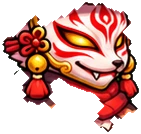
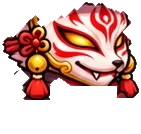
Mirror totem-legend: cat mask scarf trim

diff --git a/cat_mask.js b/cat_mask.js
@@ -6,7 +6,7 @@
    The mask is drawn after the cat, then the hat is cut out of it, so it sits UNDER the hat brim. */
 (function(){if(typeof CHAR==='undefined'||CHAR!=='cat'||/[?&]vfx3=0/.test(location.search))return;
 const OFF={"S":[-0.0,0.413,0.861],"SE":[0.006,0.486,0.887],"E":[-0.047,0.42,1.094],"NE":[-0.113,0.462,1.133],"N":[0.024,0.23,0.7]},HW={"S": 81.8, "SE": 75.0, "E": 65.0, "NE": 58.3, "N": 98.2},HAT={"idle":{"S":[[359.8,290.1],[359.8,289.8],[360.1,288.8],[359.8,287.7],[359.3,286.2],[359.4,285.1],[359.2,284.2],[358.8,283.5],[359.1,283.4],[358.9,283.4],[358.6,283.7],[358.7,284.2]],"SE":[[359.1,286.8],[359.5,286.8],[360.1,287.3],[360.2,287.5],[360.7,287.6],[361.2,287.9],[361.5,287.9],[361.7,288.0],[362.0,288.1],[362.0,288.0],[362.3,288.0],[361.8,287.8]],"E":[[360.3,290.2],[360.3,290.2],[362.8,291.4],[366.3,293.0],[365.0,292.2],[361.5,290.5],[360.6,290.1],[360.5,290.1],[360.6,290.2],[360.4,290.2],[360.5,290.2],[360.3,290.1]],"NE":[[370.9,293.4],[368.8,292.7],[366.4,291.7],[365.1,290.5],[365.2,290.2],[366.3,290.4],[368.8,290.7],[370.4,291.2],[370.3,291.3],[370.4,291.4],[370.2,291.7],[370.6,292.3]],"N":[[358.7,294.0],[358.8,293.7],[358.7,293.9],[358.3,295.4],[358.6,298.1],[358.9,299.5],[358.6,299.9],[358.4,299.0],[359.0,297.7],[358.4,296.5],[359.0,295.4],[358.6,294.5]]},"walk":{"S":[[352.0,286.5],[352.8,286.3],[359.9,285.9],[366.3,286.1],[370.3,286.3],[371.9,286.4],[368.3,285.7],[360.9,285.4]],"SE":[[359.0,291.2],[358.9,290.5],[358.9,287.4],[358.8,288.2],[359.1,291.2],[358.8,290.5],[358.9,286.6],[358.8,288.1]],"E":[[360.3,294.5],[360.2,291.0],[360.3,291.5],[360.4,295.2],[360.2,294.0],[360.3,291.4],[360.4,290.8],[360.6,294.9]],"NE":[[370.2,290.9],[370.4,294.4],[370.5,299.1],[370.4,295.1],[370.1,290.8],[370.5,293.9],[370.4,299.0],[370.4,295.5]],"N":[[357.1,296.1],[358.0,294.8],[359.0,299.4],[359.8,299.0],[359.2,295.7],[358.5,294.7],[357.2,298.0],[356.8,298.7]]},"attack":{"S":[[361.5,288.2],[368.8,295.0],[364.3,297.6],[359.1,300.8],[358.9,300.4],[348.5,296.6],[351.4,297.5],[354.3,298.3],[357.1,299.1],[360.0,300.0],[362.9,300.9],[365.8,301.7],[365.8,301.7],[365.8,300.9]],"SE":[[359.4,290.4],[349.1,296.4],[347.7,298.4],[348.0,299.6],[348.3,300.8],[348.6,301.3],[348.4,301.2],[348.7,301.3],[348.6,301.5],[348.8,302.0],[350.2,302.5],[352.8,299.3],[357.6,292.9],[359.3,289.1]],"E":[[360.3,290.1],[360.6,291.0],[360.6,292.7],[360.2,294.8],[359.6,297.3],[358.9,300.9],[358.5,302.5],[358.0,304.1],[358.4,300.9],[358.9,297.8],[359.2,294.3],[359.9,292.0],[360.2,290.7],[360.1,290.3]],"NE":[[370.1,292.1],[370.6,292.9],[369.8,295.6],[368.5,297.2],[371.8,291.3],[373.2,296.5],[372.9,302.7],[372.2,306.8],[371.9,307.0],[372.6,302.4],[372.1,293.7],[370.8,291.8],[370.1,291.2],[370.4,291.2]],"N":[[358.4,294.5],[359.6,296.4],[364.4,302.2],[374.2,302.1],[373.8,301.1],[373.5,300.1],[373.1,299.1],[372.8,298.0],[372.4,297.0],[372.1,296.0],[371.7,295.0],[368.2,295.1],[362.7,294.8],[360.1,294.6]]},"buff":{"S":[[360.0,285.4],[360.1,285.4],[363.8,285.8],[368.0,290.0],[367.2,307.4],[361.8,330.9],[362.2,339.6],[361.1,287.2],[360.2,285.2],[359.5,285.4],[359.8,285.4],[359.8,285.4]],"SE":[[358.7,286.3],[358.8,286.2],[358.7,286.6],[368.1,296.1],[379.6,322.7],[381.8,334.7],[381.9,337.3],[381.2,336.4],[379.7,324.0],[369.0,298.6],[360.8,288.5],[358.4,286.3]],"E":[[360.2,290.1],[360.4,290.1],[362.7,290.7],[372.0,296.1],[381.4,307.2],[387.2,316.3],[390.4,323.0],[383.8,308.7],[375.4,298.0],[367.9,293.2],[362.9,291.0],[360.3,290.3]],"NE":[[370.1,291.5],[370.2,291.5],[370.2,291.6],[374.5,294.4],[380.2,301.5],[385.0,312.7],[388.0,329.0],[370.4,291.6],[370.4,291.6],[370.3,291.6],[370.2,291.6],[370.1,291.6]],"N":[[358.7,294.3],[358.2,294.9],[359.0,295.5],[363.1,298.9],[362.8,298.9],[362.6,299.1],[362.0,310.1],[362.4,312.0],[362.5,304.5],[362.6,300.8],[362.8,299.1],[362.2,298.5]]},"hurt":{"S":[[359.8,288.1],[359.8,287.1],[359.9,288.1],[359.9,288.0],[359.6,289.1],[359.9,290.1],[359.6,290.1]],"SE":[[336.1,286.8],[321.1,288.7],[328.3,287.6],[340.1,286.5],[347.7,287.0],[354.8,286.9],[359.3,286.7]],"E":[[336.7,291.0],[321.2,292.8],[329.4,291.8],[340.8,290.8],[348.9,290.4],[356.1,290.2],[360.3,290.1]],"NE":[[348.3,294.3],[334.1,295.2],[341.1,294.7],[352.4,294.2],[359.3,293.2],[366.7,293.3],[370.9,293.4]],"N":[[358.7,296.0],[358.7,297.1],[358.8,296.1],[358.8,296.0],[358.6,295.0],[358.9,294.0],[358.6,294.1]]}};
-const IM={};for(const v in OFF){const im=new Image();im.src='assets/fx/cat/mask8_'+v+'.webp';IM[v]=im;}
+const IM={};for(const v in OFF){const im=new Image();im.src='assets/fx/cat/mask8_'+v+'.webp?v=2';IM[v]=im;}
 const CR=new Image();CR.src='assets/fx/cat/mask_white_crack.webp';
 const HC={},PAD=70;
 function straw(r,g,b){return r>170&&g>120&&b<150&&r-b>60&&r>=g&&g-b>30;}

diff --git a/index.html b/index.html
@@ -5925,7 +5925,7 @@ window.AF={levelUp:()=>{if(PS.lv<99){PS.lv++;applyStats();player.hp=player.maxHp
 <script src="cat_art.js?v=1"></script>
 <script src="kitsune_art.js?v=1"></script>
 <script src="cat_vfx.js?v=16"></script>
-<script src="cat_mask.js?v=2"></script>
+<script src="cat_mask.js?v=3"></script>
 <script src="kitsune_vfx.js?v=1"></script>
 <script src="croc_vfx3.js?v=1"></script>
 <script src="ui_skin.js?v=1"></script>

diff --git a/CLAUDE.md b/CLAUDE.md
@@ -115,7 +115,7 @@ The owner (Thai speaker) builds this game across many chats. Reply in Thai. Comm
   · New cfg options: noApron (no code doorsteps; the capital sprites paint their own), artRef:[r,g,b] + bounce (pieces are colour-matched to the stone they stand on, not to the grass ground), lawns {pre:1 (painted in the floor picture, only planted at runtime), keep, m, step, g, f}, groundImgs, kerb-less paves {mul} (multiplicative tint), walls.parapet now draws merlons with a front face and fills the rampart walk behind the face texture's own merlons. The minimap shows the floor picture.
   · Layout touches in capT: buildings stand 26 px back from their terrace's kerb, the fountain is on the plaza centre (y 2180) with four lamps, the two ringed pines stand on the terraces north of the plaza, the three lawns have real trees (2 each) instead of a ringed pine on the kerb, ten flower beds are planted densely, gates have a clean stone floor (pave rects with the floor's texture and tint, map-anchored → no seam) that spreads into a worn apron outside before the earth road.
   · Checked: no console errors, start / gates / warps / lawns reachable, routes across the city work, frame rate unchanged, chunk bake 66 → 26 ms. Night mode looked at (fine). Not looked at: phone screen.
-- Cat effects v3 (owner 2026-11-20: "make the cat's skill effects with SVG and VFX, pretty and realistic, details matching each skill's concept" + "hit timing, sword-swing timing and effect timing must match") — REPLACES the 'Cat (White Ronin) code VFX' note above. Plan + per-skill table in CAT_FX_PLAN_TH.md. Files: cat_art.js (20 SVG pieces rasterised once: petals, blossom, swallow, paw, eye, kasa, mask, oniFace, oniSpirit, flames, hitodama, windMark, mountain, kumo → window.KTA) · cat_vfx.js (kit: KArc sword arc in a tilted plane / KLine iai line / KGlint / KBurst / KRing broken ground ring / KStreak / KSprite / KFissure ground crack / KSpike stone spike / petals that settle on the ground, embers, ground-coloured dust, stones, straw; hooks in window.KTV) · char_cat.js calls ktV('<hook>',…) and falls back to the painted pictures when cat_vfx.js is off (?vfx3=0). Timing rule: an arc is given the seconds left until the contact frame (`lead`, action times ÷ ACTION_TEMPO via rt()) and its edge is on the target at exactly that moment; hit sparks come from the damage (jgAfterHurt → KTV.hit); hit-stop freezes both. All cuts follow the cat's only attack clip (a rising draw-cut): shapes rise / fall / flat / up, 'down' only for the two jump slams. Old look off: KtImg and KtArc are swallowed in their constructors (KTV.img / KTV.arc), ktPetals / ktEmbers are redirected, engine GRing / Impact / Crack / CrackStar / Streak + round emits are dropped ONLY while the cat's own skill code runs (SKCTX / __ACTEV / __KTSELF set by KtCore) so boss telegraphs stay; skill_enh.js effects (colour #ffe9a8) are converted to a gold ring / glint; HitCrescents + PuffDust always dropped; cat removed from TV.toonHeroes (no charge-up glow). Re-timed with the same action length: Swift Draw blink 0→.028 (it used to cut mid-dash and miss from range), Tempest Iai cuts spread over the action, Grinding Wheel = 3 real turns through the 8 sprite directions (SP .11 a-s per turn, one hit per turn), KtCharge runs on the action clock (it ended at 75 %). Persistent pieces stay calm: Ki ripples + clouds, faint blossom (Sakura Dance), flame tongues (Ashura: back ones on the ground layer), mountain + orbiting stones (Stance), two tinted clones (Shadow Dance, KClone), Flow shown as petals. Test tools (/home/claude/work): cat_harness.js (stub rAF FIRST, wait, then init — a pending rAF frame after init gives a negative dt → white screen), catstep.py <tag> <keys> [scale=0.9 cols=6 every=3 frames=54 skip=62] = labelled strips with HIT marks, catclip.py basic|a|b|c = 30 fps mp4 per tree, benchcat.py = new vs old bench. Bench (benchcat.py, 3 × 8 runs each): new 2,394 · old painted 2,426 — the same within the bench's own noise (8-run means move ±2.5 % between sessions; single-target dps1 identical), hit counts per skill identical on passive dummies (hitcmp.py). Ground break (owner 2026-11-20 'no fire, just the ground cracking from the impact'): crater() in cat_vfx.js draws his painted crack assets/fx/cat/k_crater.webp (KCraterPic: opens as a growing ellipse in .13 s, slabs jolt, fades over .55 s) + dust + stones, no lava groundBreak, no ring; KFissure / KSpike default hot:0 (no glowing cracks). Used by Earthfall, Sky Drop, Avalanche, Oni Cleave, Ashura end. Oni Executioner clip (owner 2026-11-20, his video of the fire oni): assets/fx/cat/oni_exec.webp (75 frames 256², 10 cols, black keyed, edges faded) drawn by KOniClip in cat_vfx.js on the ground layer behind the cat (150 px, 14 px behind): frames 0–42 follow the charge (KtCharge ch.t/ch.T), 43–74 = slash + break-up at 24 fps from the end of the charge; spawned from KTV.chargeTick for every kbExec cast (not only with the Oni Impact gem); the old oniSpirit sprite is not drawn while it plays. Oni Roar clip (owner 2026-11-20, his blue-oni video): frames 20–110 every 2nd (the opening where the oni shrinks away is cut) → assets/fx/cat/oni_roar.webp (46 frames 320×208, 8 cols; black keyed by flood-fill from the frame edge so the dark skin / hair stay solid, luminance alpha only for glow), KRoarClip in cat_vfx.js on the ground layer, 185 px wide, raised so the face sits above the cat's head, 24 fps (≈1.9 s); roar() no longer adds code rings / the oniFace sprite / embers. Masks (owner 2026-11-20 pictures): assets/fx/cat/mask_white (fox mask, replaces the SVG 'mask' via a KTA.get / size override at the top of cat_vfx.js → Ashura Mask forms above the head and snaps onto the face), mask_white_crack (Ashura end: cracked mask on the face, shakes, grows and fades), worn mask (owner 2026-11-21: cat_mask.js, window.KMW): from the snap-on until the buff ends the mask stays ON the face — 5 views assets/fx/cat/mask8_<S|SE|E|NE|N>.webp (W side mirrored) cut from his sheet of the cat wearing the mask (diff against the plain 8-view sheet, hat pixels removed), placed per frame from the hat centre tracked on every atlas frame (OFF in hat widths, HAT table; tools in /home/claude/work/mask: ana.py, build2.py, dirs.py) and drawn after the cat with the current frame's hat cut out (so it sits under the brim); at the end the front views show mask_white_crack, the others fade. red oni mask dropped (owner 2026-11-21: it belonged to Oni Roar, the blue-oni clip already covers that skill → picture deleted). Waiting: Mountain Stance video (green screen). Not done: own effects for the 11 ex_ skills, phone check, owner's verdict.
+- Cat effects v3 (owner 2026-11-20: "make the cat's skill effects with SVG and VFX, pretty and realistic, details matching each skill's concept" + "hit timing, sword-swing timing and effect timing must match") — REPLACES the 'Cat (White Ronin) code VFX' note above. Plan + per-skill table in CAT_FX_PLAN_TH.md. Files: cat_art.js (20 SVG pieces rasterised once: petals, blossom, swallow, paw, eye, kasa, mask, oniFace, oniSpirit, flames, hitodama, windMark, mountain, kumo → window.KTA) · cat_vfx.js (kit: KArc sword arc in a tilted plane / KLine iai line / KGlint / KBurst / KRing broken ground ring / KStreak / KSprite / KFissure ground crack / KSpike stone spike / petals that settle on the ground, embers, ground-coloured dust, stones, straw; hooks in window.KTV) · char_cat.js calls ktV('<hook>',…) and falls back to the painted pictures when cat_vfx.js is off (?vfx3=0). Timing rule: an arc is given the seconds left until the contact frame (`lead`, action times ÷ ACTION_TEMPO via rt()) and its edge is on the target at exactly that moment; hit sparks come from the damage (jgAfterHurt → KTV.hit); hit-stop freezes both. All cuts follow the cat's only attack clip (a rising draw-cut): shapes rise / fall / flat / up, 'down' only for the two jump slams. Old look off: KtImg and KtArc are swallowed in their constructors (KTV.img / KTV.arc), ktPetals / ktEmbers are redirected, engine GRing / Impact / Crack / CrackStar / Streak + round emits are dropped ONLY while the cat's own skill code runs (SKCTX / __ACTEV / __KTSELF set by KtCore) so boss telegraphs stay; skill_enh.js effects (colour #ffe9a8) are converted to a gold ring / glint; HitCrescents + PuffDust always dropped; cat removed from TV.toonHeroes (no charge-up glow). Re-timed with the same action length: Swift Draw blink 0→.028 (it used to cut mid-dash and miss from range), Tempest Iai cuts spread over the action, Grinding Wheel = 3 real turns through the 8 sprite directions (SP .11 a-s per turn, one hit per turn), KtCharge runs on the action clock (it ended at 75 %). Persistent pieces stay calm: Ki ripples + clouds, faint blossom (Sakura Dance), flame tongues (Ashura: back ones on the ground layer), mountain + orbiting stones (Stance), two tinted clones (Shadow Dance, KClone), Flow shown as petals. Test tools (/home/claude/work): cat_harness.js (stub rAF FIRST, wait, then init — a pending rAF frame after init gives a negative dt → white screen), catstep.py <tag> <keys> [scale=0.9 cols=6 every=3 frames=54 skip=62] = labelled strips with HIT marks, catclip.py basic|a|b|c = 30 fps mp4 per tree, benchcat.py = new vs old bench. Bench (benchcat.py, 3 × 8 runs each): new 2,394 · old painted 2,426 — the same within the bench's own noise (8-run means move ±2.5 % between sessions; single-target dps1 identical), hit counts per skill identical on passive dummies (hitcmp.py). Ground break (owner 2026-11-20 'no fire, just the ground cracking from the impact'): crater() in cat_vfx.js draws his painted crack assets/fx/cat/k_crater.webp (KCraterPic: opens as a growing ellipse in .13 s, slabs jolt, fades over .55 s) + dust + stones, no lava groundBreak, no ring; KFissure / KSpike default hot:0 (no glowing cracks). Used by Earthfall, Sky Drop, Avalanche, Oni Cleave, Ashura end. Oni Executioner clip (owner 2026-11-20, his video of the fire oni): assets/fx/cat/oni_exec.webp (75 frames 256², 10 cols, black keyed, edges faded) drawn by KOniClip in cat_vfx.js on the ground layer behind the cat (150 px, 14 px behind): frames 0–42 follow the charge (KtCharge ch.t/ch.T), 43–74 = slash + break-up at 24 fps from the end of the charge; spawned from KTV.chargeTick for every kbExec cast (not only with the Oni Impact gem); the old oniSpirit sprite is not drawn while it plays. Oni Roar clip (owner 2026-11-20, his blue-oni video): frames 20–110 every 2nd (the opening where the oni shrinks away is cut) → assets/fx/cat/oni_roar.webp (46 frames 320×208, 8 cols; black keyed by flood-fill from the frame edge so the dark skin / hair stay solid, luminance alpha only for glow), KRoarClip in cat_vfx.js on the ground layer, 185 px wide, raised so the face sits above the cat's head, 24 fps (≈1.9 s); roar() no longer adds code rings / the oniFace sprite / embers. Masks (owner 2026-11-20 pictures): assets/fx/cat/mask_white (fox mask, replaces the SVG 'mask' via a KTA.get / size override at the top of cat_vfx.js → Ashura Mask forms above the head and snaps onto the face), mask_white_crack (Ashura end: cracked mask on the face, shakes, grows and fades), worn mask (owner 2026-11-21: cat_mask.js, window.KMW): from the snap-on until the buff ends the mask stays ON the face — 5 views assets/fx/cat/mask8_<S|SE|E|NE|N>.webp (W side mirrored) cut from his sheet of the cat wearing the mask (diff against the plain 8-view sheet, hat pixels removed), placed per frame from the hat centre tracked on every atlas frame (OFF in hat widths, HAT table; tools in /home/claude/work/mask: ana.py, build2.py, dirs.py) and drawn after the cat with the current frame's hat cut out (so it sits under the brim); at the end the front views show mask_white_crack, the others fade. Checked on attack frames too (follows the head). SE picture: the scarf under the chin was cut off. red oni mask dropped (owner 2026-11-21: it belonged to Oni Roar, the blue-oni clip already covers that skill → picture deleted). Waiting: Mountain Stance video (green screen). Not done: own effects for the 11 ex_ skills, phone check, owner's verdict.
 - Kitsune effects v3 (owner 2026-11-20 "next, the nine-tailed fox", same brief as the cat). Plan + per-skill table in KITSUNE_FX_PLAN_TH.md. Files: kitsune_art.js (21 SVG pieces: pink / blue fox fire, ofuda, torii, bell, nine tails fan, lantern, leaf, rice, fox mask, crescent, full moon, Yata mirror, moon god, fox sun, petals → window.KTA, same registry as the cat's) · kitsune_vfx.js (hooks in window.KIV: cast / release / staff / hit / pow / home / shot / beam / pillar / burst / ground / top + one per skill; own pieces KBeamFx lance, KFlameCol fire column, fall() = things that drop and touch the ground on the damage frame, sparks() = tiny flames, never round dots) · char_kitsune.js asks kiV('<hook>',…) first. The generic kit (KArc, KRing, KSprite, petals, dust …) is now SHARED: sections 1–3 of cat_vfx.js run for cat + kitsune and export window.K3, then the file returns unless CHAR is the cat; wolf_vfx3.js (VK) also runs for the kitsune. Include order in index.html: wolf_vfx3 → cat_art → kitsune_art → cat_vfx → kitsune_vfx. The painted layer char_kitsune_fx.js used to install itself by wrapping installKitsune — installKitsuneFx now returns unless ?vfx3=0. BUG FIXED (affects play, not only looks): KiCore.update returned nothing, so the engine removed the ticker after one frame — Wisp Dance, Foxfire Veil, lantern triggers, Burning Petals, Lunar Circle (pull, ticks, Eclipse), Tsukuyomi's Night (beams, Moonrise), Torii SP, Grace heal, Awakening cooldowns never ran, and every cast left one more KiGround + KiTop in fx. It now returns CHAR==='kitsune'. Branch A was +13 % at the old scale, so KI_SCALE {A 1.84, B 1.07} → {A 1.60, B 1.06}; bench 8 runs: A 2,456 · B 2,421 (/home/claude/work/benchk.py A,B 8; KI_SCALE is applied once at load, change the constant to try a value). SAME BUG STILL OPEN IN BASTET: BaCore.update (char_bastet.js) also ends without a return, so her per-frame logic (hex decay, plague / soul ticks, army end, shield expiry) runs one frame per cast — NOT fixed yet because it needs a re-bench and a new BA_SCALE; owner was told 2026-11-20. Dragon, lion and anubis cores return correctly. Test tools: kstep.py <tag> <keys> [scale= cols= every= frames= skip=] and kclip.py basic|a|b|c (kitsune versions of the cat tools, output in /home/claude/work/kit). Owner 2026-11-20 after the first clips: 'the nine-tailed fox is a RANGED magic class' → with KIV on, the normal attack (kStaff) plays the cast ('buff') clip instead of the wolf's axe swing — same release time and total length, so her attack rate is unchanged; fox fire gathers at the staff head during the wind-up (KIV.staffStart) and is thrown from there (KIV.from, KiHome starts at the staff tip and sinks to body height); no swing arc. Review clips are recorded from range (190–260 px). Keep every kitsune effect reading as a ranged cast. Not done: she still wears the wolf sprite, ex_ skills use the converted gold ring / glint, phone check, owner's verdict.
 - Wolf effects v4 (2026-11-20): wolf_art.js (SVG: howl, axes, shields, banner, gate, skull, spear, runes, feathers) + wolf_vfx4.js (window.WV4, hooks asked first by wolf_fx.js: make / slash / addFx / emit / hurt / pic; ?wv4=0 = off). Owner after seeing it: "skills without a slash go back to the old look, my generated pictures fit better" → v4 now only covers the axe-cut skills (SLASHK: basic, reversalSlash, armorBreak, bloodCleave, savageRend, axeDance, revengeBreaker, vampiricAxe, bloodRush, thunderFang, lightningPursuit, frostFang): arcs follow the sprite's measured axe head and land on the contact frame, hit cuts / blood / sparks come from hurt(). Everything else (buffs, leaps, Valhalla, Executioner, runes, spear, banner, Fenrir) and the 6 clip skills draw exactly as before (checked: same painted pictures in the all-skill survey). The SVG pieces for the non-slash skills stay in wolf_art.js unused.
 - Wolf v4 ROLLED BACK (owner 2026-11-20 08:30: 'not right, go back to before I asked to change the wolf skills'): wolf_fx.js restored to the pre-v4 version, wolf_art.js + wolf_vfx4.js no longer loaded (files kept, unused), cat_vfx.js K3 kit back to cat + kitsune only. The wolf is exactly as before this pass (wolf_fx.js + wolf_vfx3.js + his clips).
